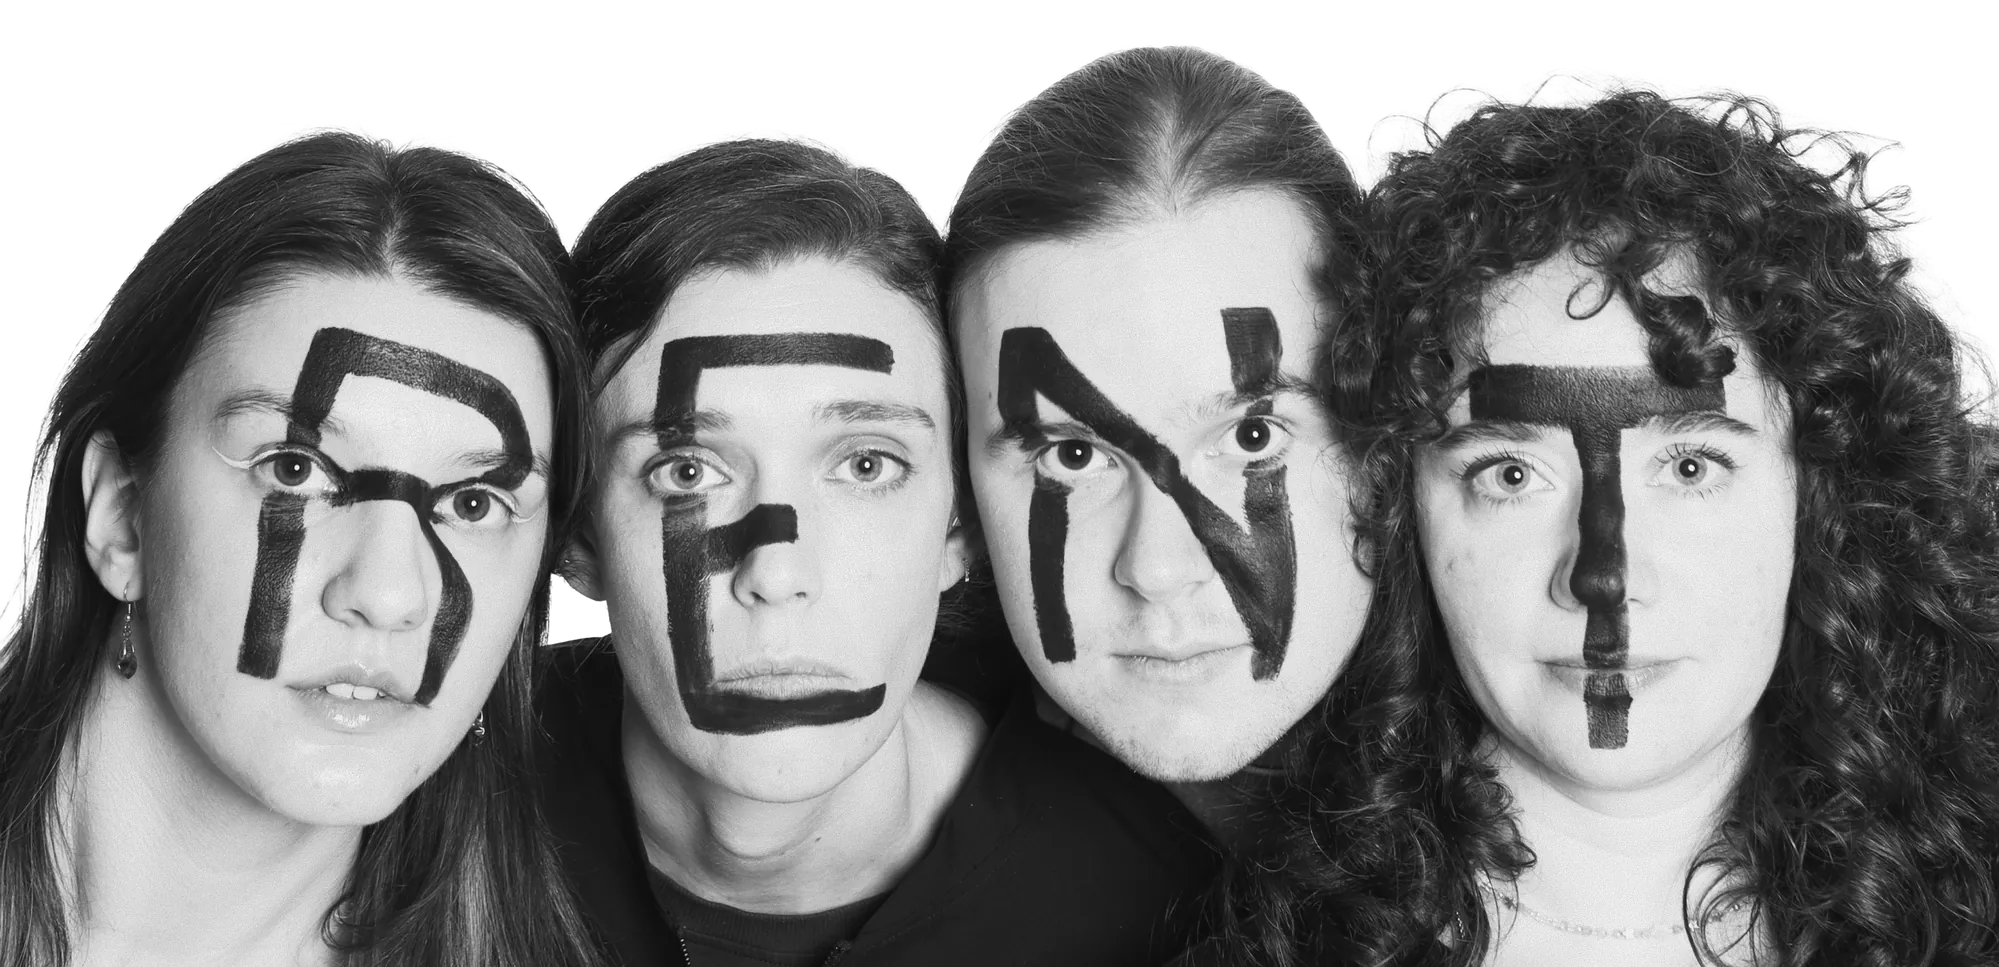
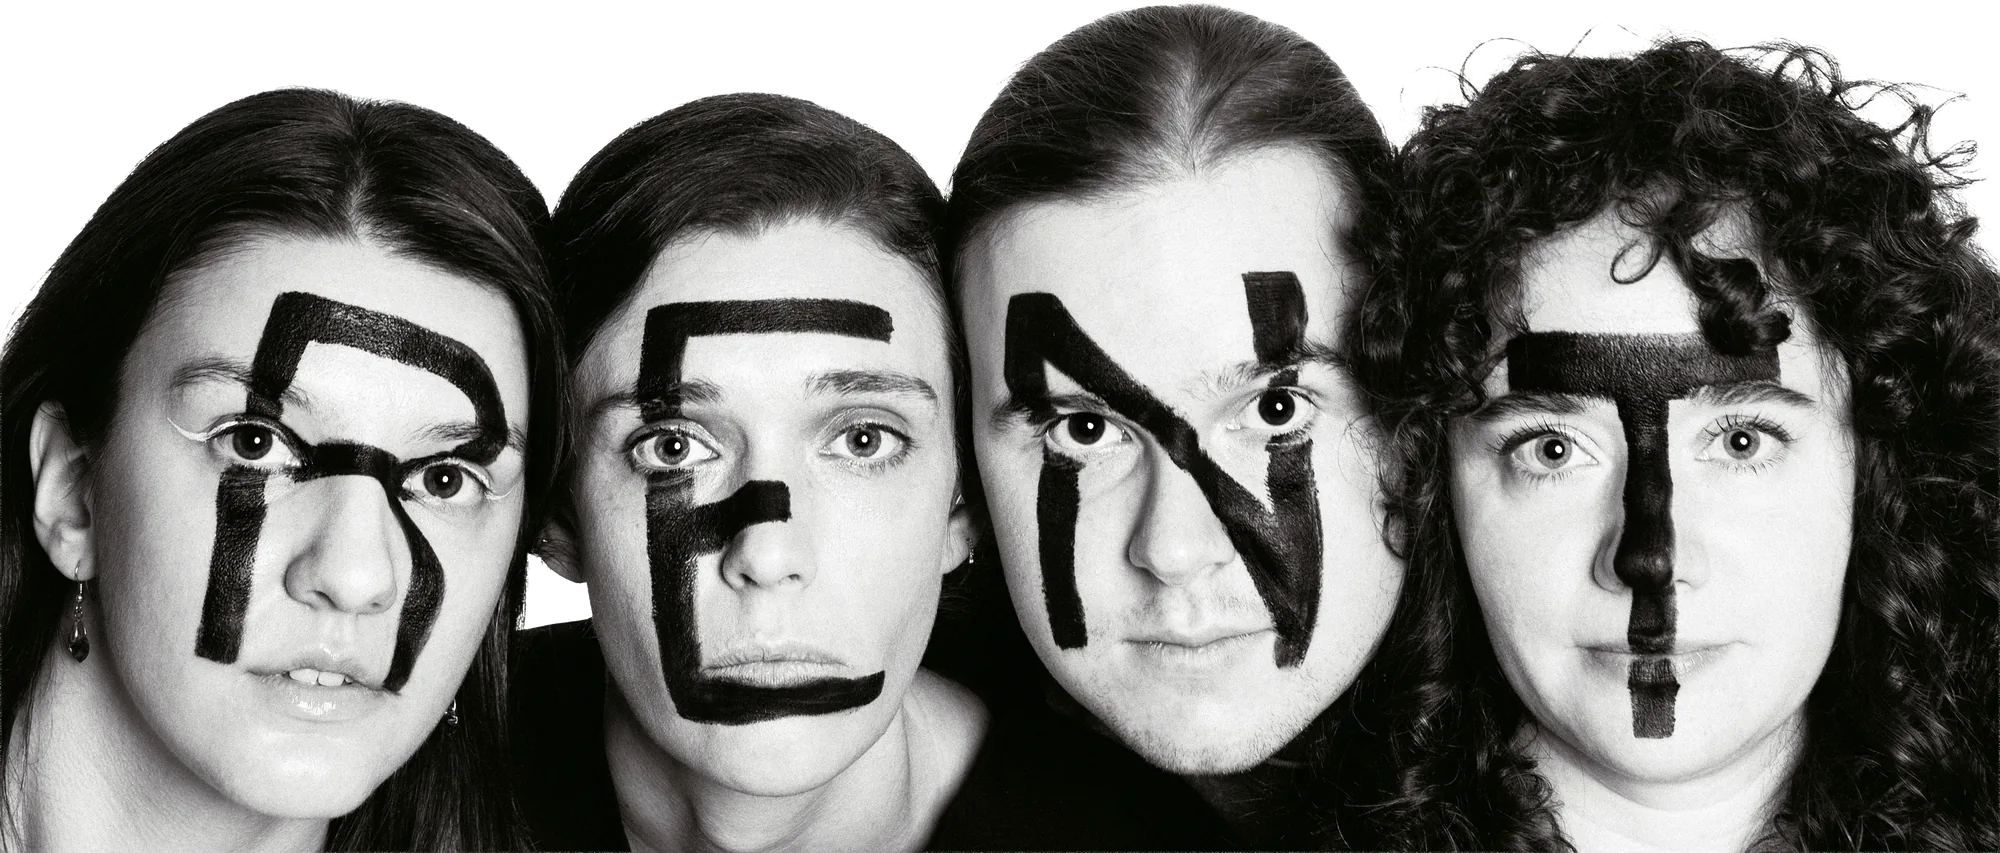
Bottom faces photo: final retouched version
Claude-Session: https://claude.ai/code/session_01WX6uRsqcYXWdFqDAGXthUi

diff --git a/index.html b/index.html
@@ -17,8 +17,8 @@
 <link rel="icon" type="image/png" sizes="32x32" href="favicon-32.png">
 <link rel="apple-touch-icon" href="apple-touch-icon.png">
 <script defer src="https://cloud.umami.is/script.js" data-website-id="f77260aa-2fc8-4497-9ee6-ddd14eaf5aa1"></script>
-<link rel="stylesheet" href="fonts.css?v=202611101428">
-<link rel="stylesheet" href="style.css?v=202611101428">
+<link rel="stylesheet" href="fonts.css?v=202611101606">
+<link rel="stylesheet" href="style.css?v=202611101606">
 </head>
 <body>
 
@@ -92,7 +92,7 @@
     <h2 class="sx__h t a" style="--d:150;--m:56" data-i18n="about_h">WHAT IS “RENT”</h2>
     <div class="sx__body">
       <p class="sx__p o-l4" data-i18n="dx_ab1">RENT is a rock musical by Jonathan Larson about a year in the life of a group of young artists in New York in the early nineties. They can’t pay the rent, they fall in love, they lose each other, and they’re right in the middle of the AIDS crisis.</p>
-      <div class="sx-img o-l4" style="--r:1600/1122"><img src="images/home/original-cast.jpg?v=202611101428" alt="Original RENT cast, 1996"></div>
+      <div class="sx-img o-l4" style="--r:1600/1122"><img src="images/home/original-cast.jpg?v=202611101606" alt="Original RENT cast, 1996"></div>
       <p class="sx__p o-r4" data-i18n="dx_ab2">Larson wrote it about his own friends and neighbourhood. He died suddenly, at age 35, the night before the first preview of the show, and never saw what came next: RENT moved to Broadway, won the Pulitzer Prize and four Tony Awards (including Best Musical), ran for twelve years and became one of the most iconic musicals ever written.</p>
       <p class="sx__p o-l2" data-i18n="dx_ab3">People get sick, fall in and out of love, behave like complete assholes — often all in the same song. Somehow, you end up rooting for them. Larson took Puccini’s La Bohème and moved it to 1990s New York.</p>
       <p class="sx__q o-l2" data-i18n="dx_abq">Thirty years later, we’re bringing his New York to Belgrade, and it feels just as relevant here and now.</p>
@@ -130,7 +130,7 @@
     <h2 class="sx__h t a" style="--d:150;--m:56" data-i18n="team_h">TEAM</h2>
     <div class="sx__body">
       <p class="sx__p o-l2" data-i18n="dx_tm1">We’re a cast and crew from Serbia, Russia and the US who decided to stage a Broadway musical with whatever time and money we could offer. We did it because we love this show deeply, and because right now Belgrade needs this story more than ever.</p>
-      <div class="sx-img o-l4" style="--r:1045/840;--op:50% 64%"><video autoplay muted loop playsinline webkit-playsinline preload="auto" poster="images/team-poster.jpg?v=202611101428" aria-label="RENT team"><source src="images/team.mp4?v=202611101428" type="video/mp4"><source src="images/team.webm?v=202611101428" type="video/webm"></video></div>
+      <div class="sx-img o-l4" style="--r:1045/840;--op:50% 64%"><video autoplay muted loop playsinline webkit-playsinline preload="auto" poster="images/team-poster.jpg?v=202611101606" aria-label="RENT team"><source src="images/team.mp4?v=202611101606" type="video/mp4"><source src="images/team.webm?v=202611101606" type="video/webm"></video></div>
       <a class="sx__q sx__link o-l4" href="team/" data-i18n="dx_tmlink">get to know us better</a>
     </div>
 </section>
@@ -201,7 +201,7 @@
       <div class="sx__p o-l2" data-i18n="offline_p"></div>
     </div>
 </section>
-<img class="faces" src="images/home/rent-faces.webp" alt="">
+<img class="faces" src="images/home/rent-faces.webp?v=2611101605" alt="">
 </div>
 
 <!-- ===== INSTAGRAM (black, EN only) ===== -->
@@ -232,9 +232,9 @@
 <!-- ===== MOBILE STICKY CTA ===== -->
 <a href="#tickets" class="cta-bar cta-bar--fixed" data-i18n="cta_buy">BUY A TICKET</a>
 
-<script src="i18n.js?v=202611101428"></script>
-<script src="main.js?v=202611101428"></script>
+<script src="i18n.js?v=202611101606"></script>
+<script src="main.js?v=202611101606"></script>
 <script src="https://hub.xtix.ai/static/scripts/widget/xtixwidget.js"></script>
-<script src="fx.js?v=202611101428"></script>
+<script src="fx.js?v=202611101606"></script>
 </body>
 </html>

diff --git a/team/index.html b/team/index.html
@@ -17,8 +17,8 @@
 <link rel="icon" type="image/png" sizes="32x32" href="../favicon-32.png">
 <link rel="apple-touch-icon" href="../apple-touch-icon.png">
 <script defer src="https://cloud.umami.is/script.js" data-website-id="f77260aa-2fc8-4497-9ee6-ddd14eaf5aa1"></script>
-<link rel="stylesheet" href="../fonts.css?v=202611101428">
-<link rel="stylesheet" href="../style.css?v=202611101428">
+<link rel="stylesheet" href="../fonts.css?v=202611101606">
+<link rel="stylesheet" href="../style.css?v=202611101606">
 </head>
 <body class="teampage">
 
@@ -133,7 +133,7 @@
 <!-- ===== MOBILE STICKY CTA ===== -->
 <a href="../#tickets" class="cta-bar cta-bar--fixed" data-i18n="cta_buy">BUY A TICKET</a>
 
-<script src="../i18n.js?v=202611101428"></script>
-<script src="../main.js?v=202611101428"></script>
+<script src="../i18n.js?v=202611101606"></script>
+<script src="../main.js?v=202611101606"></script>
 </body>
 </html>

diff --git a/thankyou/index.html b/thankyou/index.html
@@ -6,8 +6,8 @@
 <title>THANK YOU — RENT MUSICAL BELGRADE</title>
 <meta name="robots" content="noindex">
 <script defer src="https://cloud.umami.is/script.js" data-website-id="f77260aa-2fc8-4497-9ee6-ddd14eaf5aa1"></script>
-<link rel="stylesheet" href="../fonts.css?v=202611101428">
-<link rel="stylesheet" href="../style.css?v=202611101428">
+<link rel="stylesheet" href="../fonts.css?v=202611101606">
+<link rel="stylesheet" href="../style.css?v=202611101606">
 <style>
   /* This page opens inside the xtix widget (iframe), so it is just the pink block,
      scaled to the width of the frame. */
